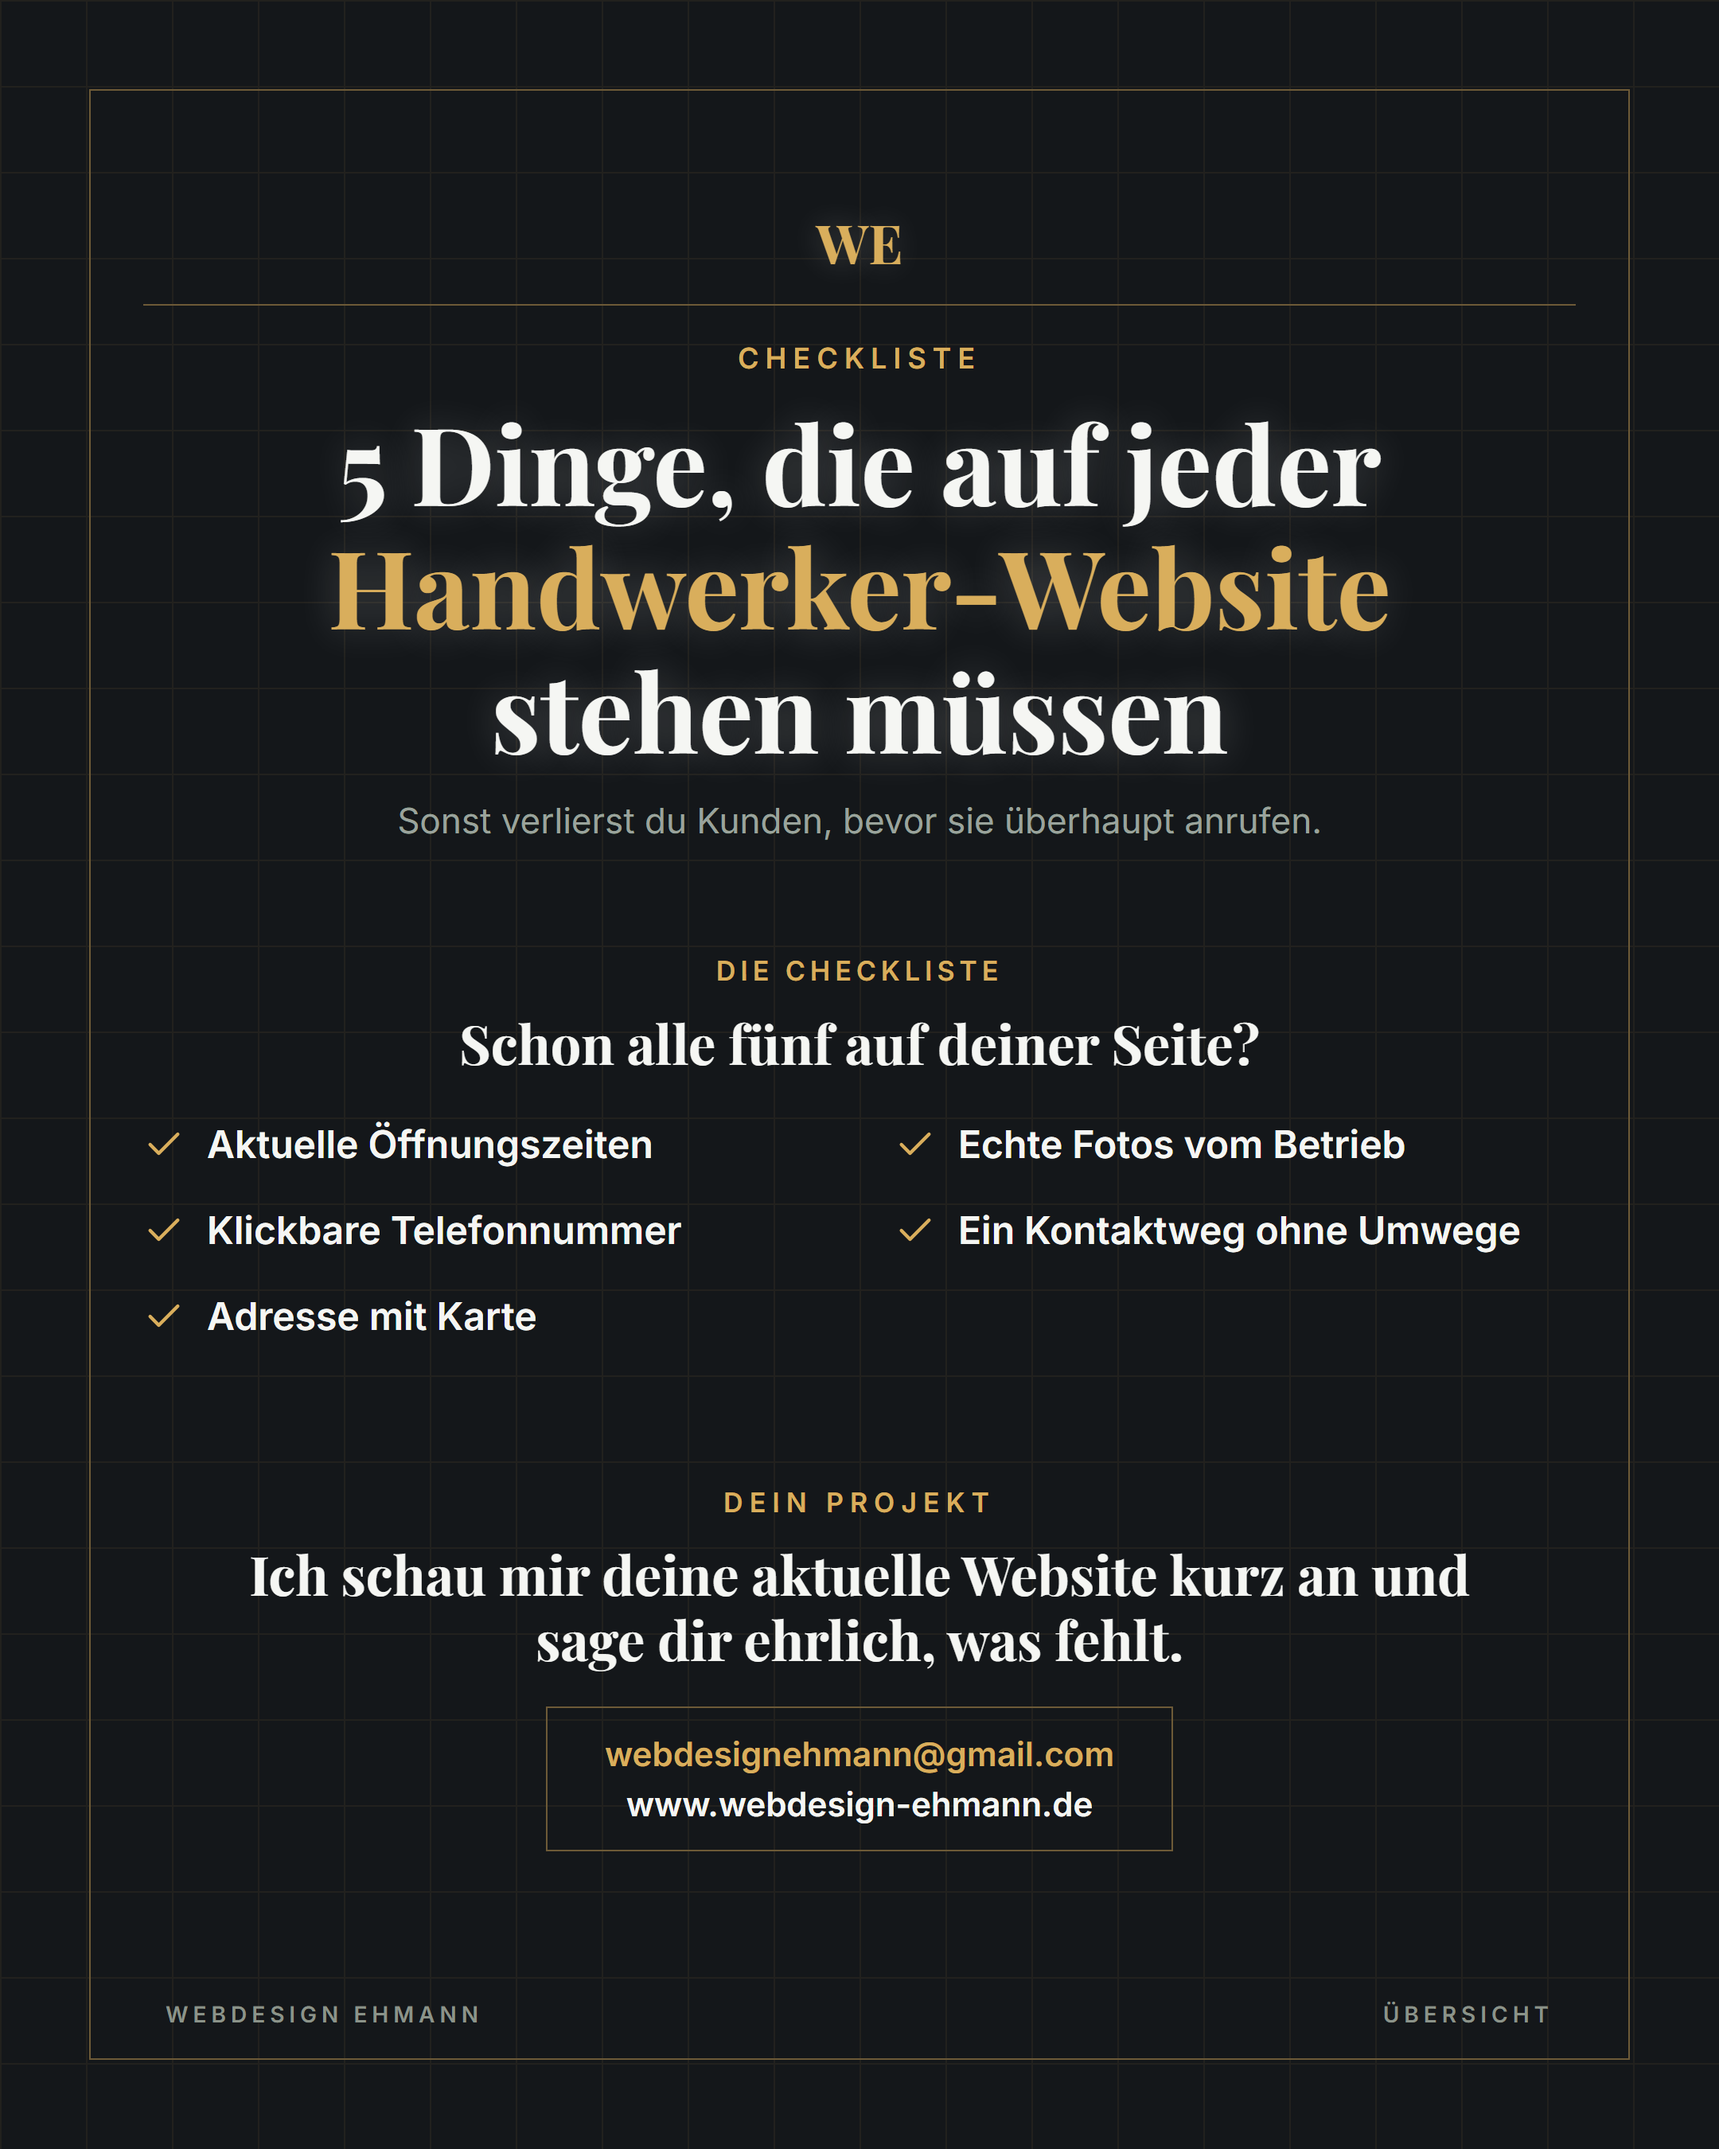
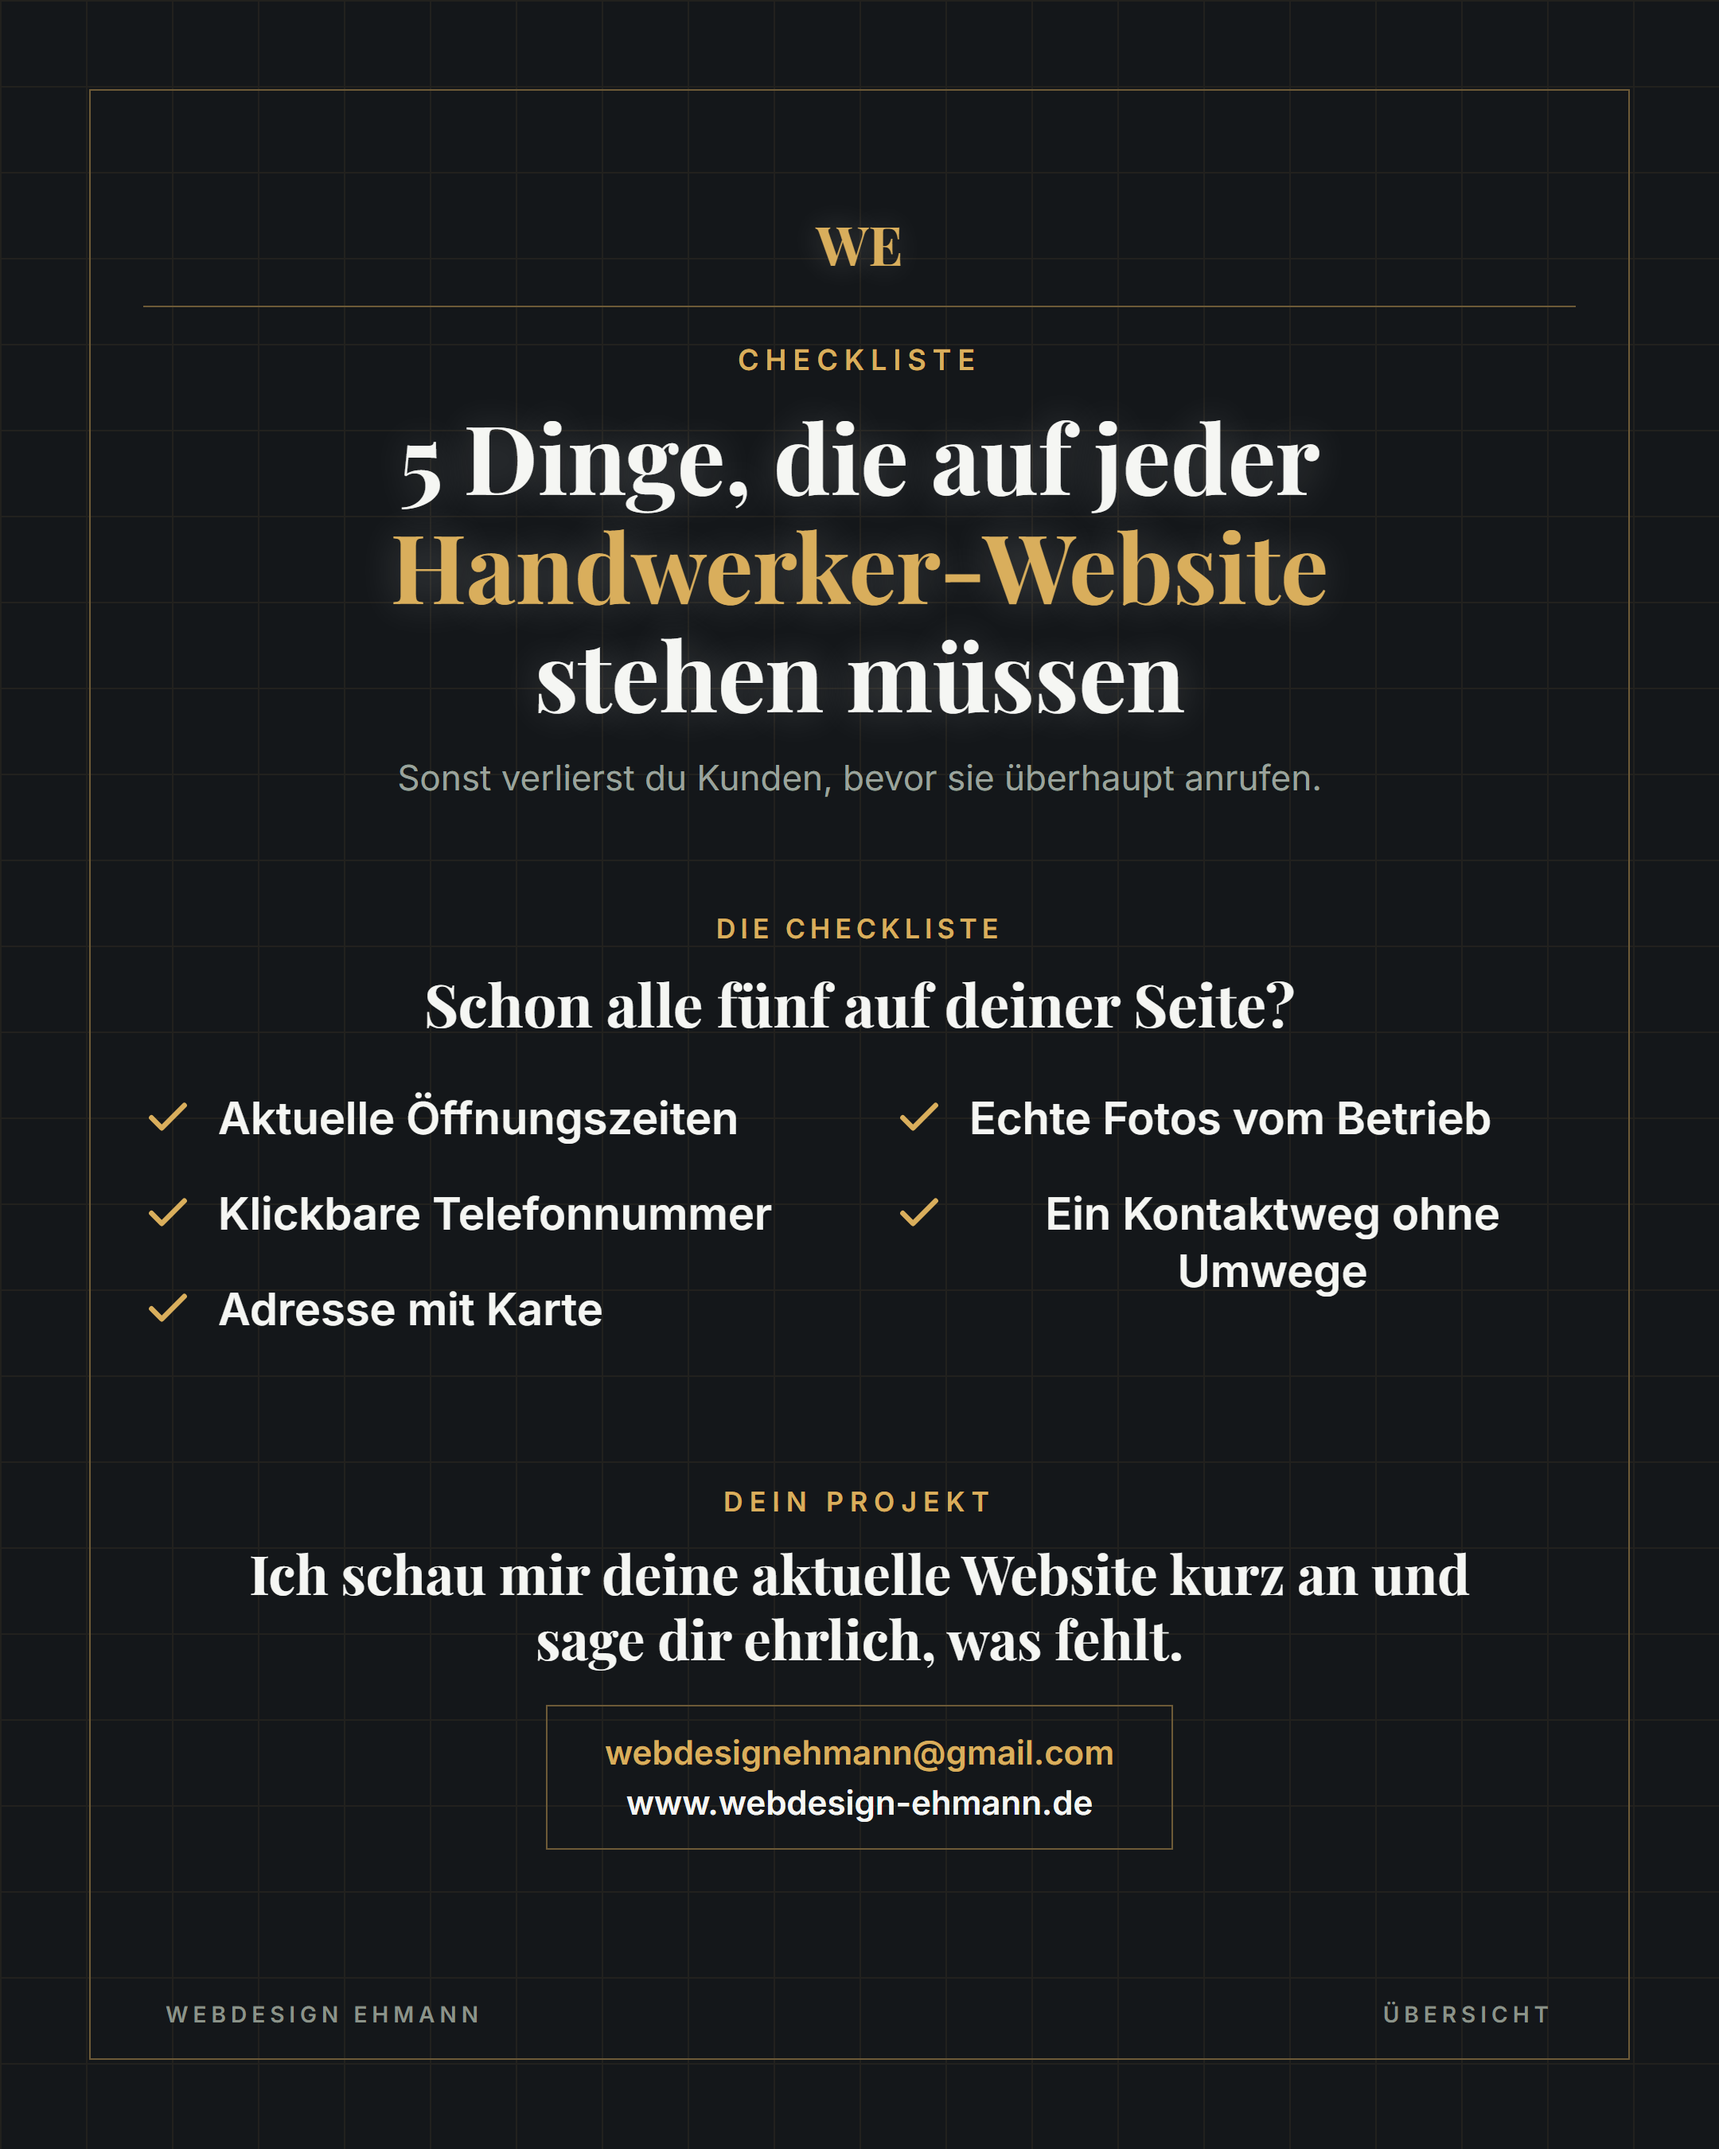
Instagram-Uebersicht-Slides: Headline etwas kleiner, Checkliste staerker betont
Headline eine Stufe zurueckgenommen (war knapp zu dominant), dafuer
Checklisten-Punkte deutlich hervorgehoben: groessere/fettere Schrift,
groessere Haken-Icons.

diff --git a/assets/marketing/instagram-posts/_build/overview-generic.js b/assets/marketing/instagram-posts/_build/overview-generic.js
@@ -36,9 +36,9 @@ function lineCount(headline) {
 }
 function hookSize(headline) {
   const n = lineCount(headline);
-  if (n <= 1) return 94;
-  if (n === 2) return 82;
-  return 68;
+  if (n <= 1) return 84;
+  if (n === 2) return 73;
+  return 60;
 }
 
 function pointsColumns(points) {
@@ -48,15 +48,15 @@ function pointsColumns(points) {
 }
 
 function checkIcon() {
-  return `<svg width="26" height="26" viewBox="0 0 24 24" fill="none" stroke="${t.accent}" stroke-width="2" stroke-linecap="round" stroke-linejoin="round"><path d="M4 12.5l5 5L20 6.5"/></svg>`;
+  return `<svg width="31" height="31" viewBox="0 0 24 24" fill="none" stroke="${t.accent}" stroke-width="2.5" stroke-linecap="round" stroke-linejoin="round"><path d="M4 12.5l5 5L20 6.5"/></svg>`;
 }
 
 function pointsList(points) {
   const [colA, colB] = pointsColumns(points);
   const row = (item) => `
-    <div style="display:flex; align-items:flex-start; gap:14px; margin-bottom:22px;">
-      <div style="flex-shrink:0; margin-top:2px;">${checkIcon()}</div>
-      <div style="font-family:'Inter',sans-serif; font-weight:600; font-size:24px; line-height:1.3; color:${t.headline};">${item}</div>
+    <div style="display:flex; align-items:flex-start; gap:16px; margin-bottom:24px;">
+      <div style="flex-shrink:0; margin-top:1px;">${checkIcon()}</div>
+      <div style="font-family:'Inter',sans-serif; font-weight:700; font-size:28px; line-height:1.28; color:${t.headline};">${item}</div>
     </div>`;
   if (!colB.length) {
     return `<div style="width:100%; max-width:820px; margin:0 auto;">${colA.map(row).join("")}</div>`;
@@ -94,7 +94,7 @@ html, body { width:${WIDTH}px; height:${HEIGHT}px; overflow:hidden; background:$
 .headline .accent { color:${t.accent}; }
 .hook-subtext { font-family:'Inter',sans-serif; font-weight:400; font-size:22px; line-height:1.45; color:${t.subtext}; max-width:760px; margin:16px auto 0; }
 .points-kicker { font-family:'Inter',sans-serif; font-weight:600; font-size:17px; letter-spacing:3px; text-transform:uppercase; color:${t.kicker}; margin-top:68px; }
-.points-headline { font-family:'Playfair Display',serif; font-weight:700; font-size:34px; color:${t.headline}; margin-top:12px; margin-bottom:26px; }
+.points-headline { font-family:'Playfair Display',serif; font-weight:700; font-size:37px; color:${t.headline}; margin-top:12px; margin-bottom:30px; }
 .cta-kicker { font-family:'Inter',sans-serif; font-weight:600; font-size:17px; letter-spacing:4px; text-transform:uppercase; color:${t.kicker}; margin-top:68px; }
 .cta-headline { font-family:'Playfair Display',serif; font-weight:700; font-size:34px; line-height:1.2; color:${t.headline}; margin-top:14px; max-width:800px; }
 .contact-box { border:1px solid ${t.border}; padding:16px 36px; margin-top:22px; flex-shrink:0; }
